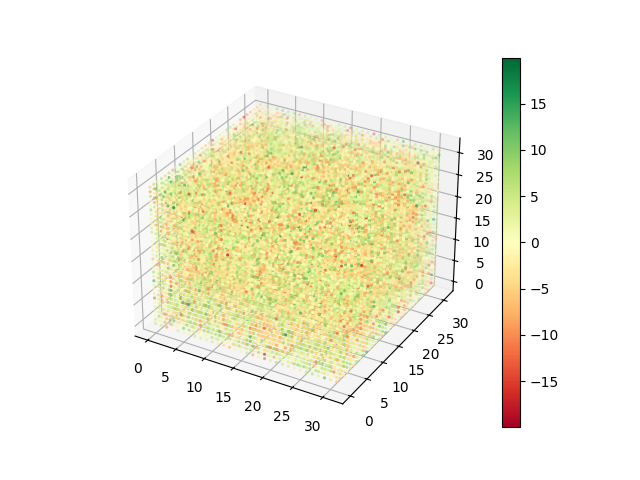
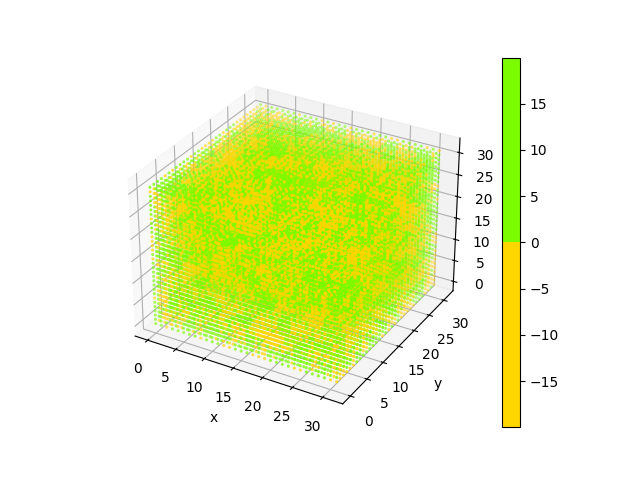
made color map only 2 colors corresponding to sign

Changed region(s): [[0.2188, 0.2188, 0.6875, 0.8125], [0.7812, 0.125, 0.8125, 0.9062]]

diff --git a/first_order_SDRG_domain_visualization.py b/first_order_SDRG_domain_visualization.py
@@ -44,8 +44,11 @@ x, y, z = np.meshgrid(range(L), range(L), range(L))
 # Plot the 3D array
 fig = plt.figure()
 ax = fig.add_subplot(projection='3d')
-sc = ax.scatter(x, y, z, c=data.flatten(), marker='.', cmap='RdYlGn',
+sc = ax.scatter(x, y, z, c=data.flatten(), marker='.',
+                cmap=colors.ListedColormap(["gold", "lawngreen"]),
                 norm=colors.CenteredNorm(), linewidths=0.001)
+plt.xlabel('x')
+plt.ylabel('y')
 plt.colorbar(sc)
 plt.savefig(FILE_NAME + '.png')
 plt.show()
